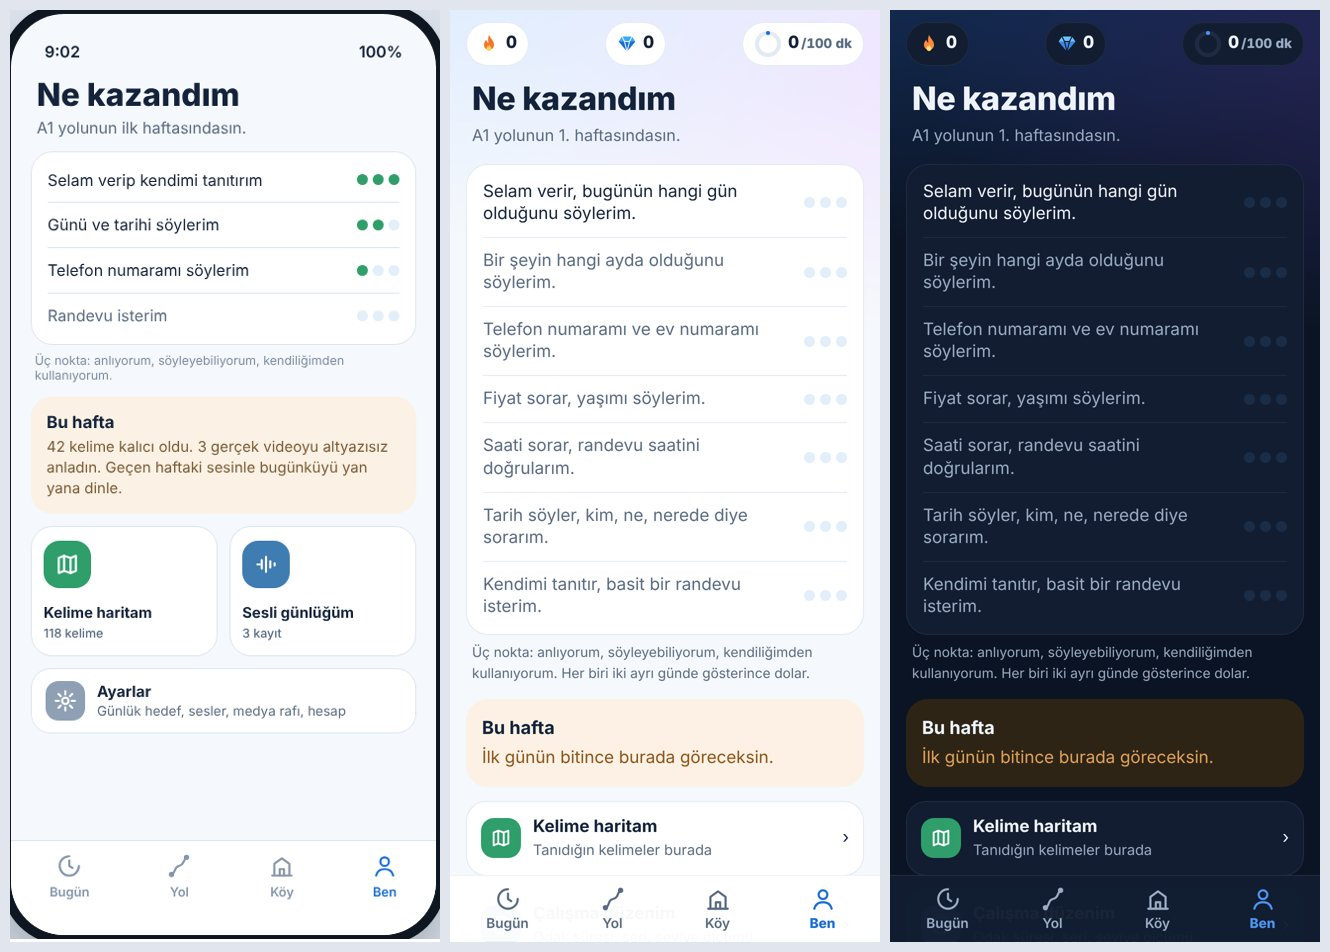
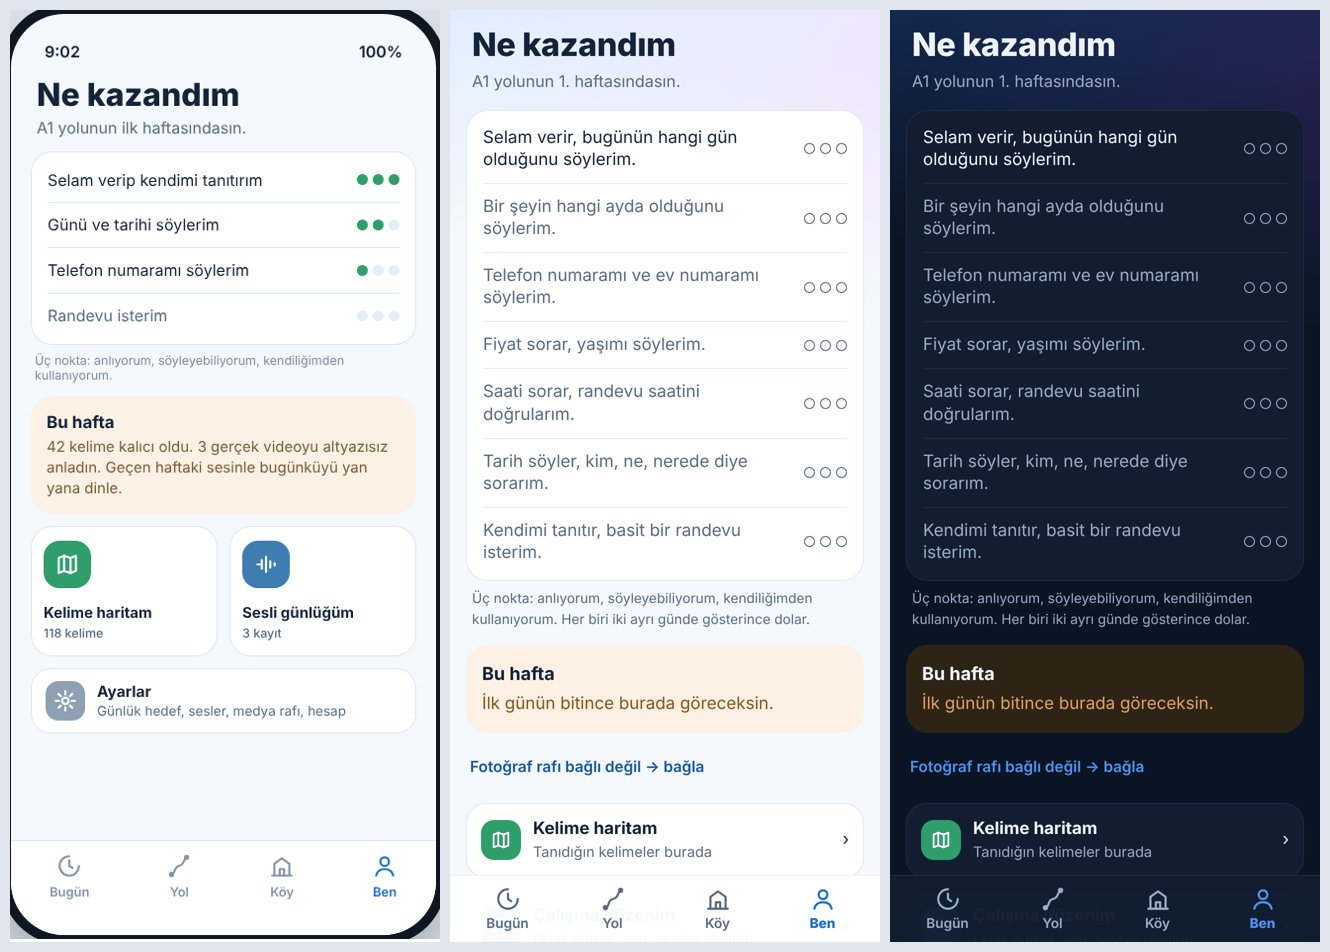
#208 1. tur: noktalar OD-4 gün kuralıyla, Çalışma düzenim sıfırsız, durum çubuğu yalnız Bugün/Yol, raf satırı
P1-1: söyleyebiliyorum = iki ayrı günde doğru üretim (sessions zaman damgası);
anlıyorum = iki ayrı gün + doğruluk ≥ policy.ben.tanima_dogruluk (0,9).
P1-2: puan yokken XP/seri ve geçen hafta kartı, odak verisi yokken sayılar
çizilmez; hafta çubuğunda 0 yerine nokta; "Bu ay" yalnız sıfır olmayanlar.
PM #200 finali takip b: üst durum çubuğu yalnız Bugün ve Yol sekmelerinde.
PM-099: raf bağlı değilse Ben'de tek satır "bağla". P2-2 bayat hafta,
P2-3 2. hafta boş cümlesi, P2-4 yalnız ses kaydı, P2-5 nokta etiketi ve
halka biçimli boş nokta (kontrast).

Claude-Session: https://claude.ai/code/session_016gishJWmPT9PRQQU6UryZo

diff --git a/web/src/core/ben.ts b/web/src/core/ben.ts
@@ -1,8 +1,8 @@
 /**
  * Ben (Hedef 3, PM-084 md. 5; hedef design/TARGET3 "Ben"): "Ne kazandım". Saf hesaplar; ekran `screens/Ben.tsx`.
  * Yapabildiklerim: içinde bulunulan haftanın günlerinin `can_do` cümleleri; her birinde üç nokta (OGRETIM_DONGUSU OD-8):
- *   1. anlıyorum (K1–K2): günün kartlarının en az `nokta_oran`'ı iki ayrı günde tanınmış;
- *   2. söyleyebiliyorum (K3): aynı oran iki ayrı oturumda (≥ 3 sa arayla) doğru üretilmiş (`durable`);
+ *   1. anlıyorum (K1–K2): günün kartlarının en az `nokta_oran`'ı iki ayrı günde, doğruluğu ≥ `tanima_dogruluk` tanınmış;
+ *   2. söyleyebiliyorum (K3): aynı oran iki ayrı günde ipucusuz doğru üretilmiş (aktif yolun doğru oturumları);
  *   3. kendiliğimden kullanıyorum (K4–K5): serbest üretim kanıtı (karakter sohbeti, sesli günlük) cihazda henüz
  *      tutulmuyor; kanıt olmadan nokta dolmaz (elle doldurma yok).
  * Bu hafta: yolun bu haftasının gerçek sayıları; hepsi sıfırsa tek dürüst cümle.
@@ -15,12 +15,19 @@ export const haftaNo = (gun: number) => Math.max(1, Math.ceil(gun / HAFTA_GUN));
 /** Haftanın gün aralığı (1. hafta: 1–7) */
 export const haftaGunleri = (hafta: number) => Array.from({ length: HAFTA_GUN }, (_, i) => (hafta - 1) * HAFTA_GUN + i + 1);
 
-const yerelGun = (iso?: string) => (iso ? new Date(iso).toLocaleDateString("sv-SE") : null);
-/** K1–K2: tanıma iki ayrı günde (ilk değerlendirme günü ≠ son doğru tanıma günü) ya da üretimde kalıcı */
-export const tanidi = (it: LearnerItem | undefined) =>
-  !!it && (it.durable || (it.passive.ok >= 2 && !!yerelGun(it.firstAt?.passive) && yerelGun(it.firstAt?.passive) !== yerelGun(it.passive.last)));
-/** K3: iki ayrı oturumda doğru üretim (srs.ts `durable`, ≥ 3 sa arayla) */
-export const soyledi = (it: LearnerItem | undefined) => !!it?.durable;
+const yerelGun = (t?: string | number) => (t ? new Date(t).toLocaleDateString("sv-SE") : null);
+/**
+ * K3: ipucusuz doğru üretim en az iki ayrı yerel günde (inceleme #208 P1-1). Aktif yolun doğru oturumları
+ * `sessions` içinde "<ad>@<ms>" biçiminde tutulur (srs.ts); `durable` yalnız 3 sa ara istediği için kullanılmaz.
+ */
+export const soyledi = (it: LearnerItem | undefined) =>
+  !!it && new Set(it.active.sessions.map((s) => Number(s.split("@")[1] || 0)).filter(Boolean).map((t) => yerelGun(t))).size >= 2;
+/**
+ * K1–K2: tanıma iki ayrı günde ve doğruluk ≥ `tanima_dogruluk` (OD-4: ≥ %90, en az 2 ayrı gün). İlk değerlendirme günü
+ * (`firstAt.passive`) ile son değerlendirme günü farklı olmalı. Üretimde iki günde doğru olan kart tanınmış sayılır.
+ */
+export const tanidi = (it: LearnerItem | undefined, dogruluk = POLICY.ben.tanima_dogruluk) =>
+  !!it && (soyledi(it) || (it.passive.n >= 2 && it.passive.ok / it.passive.n >= dogruluk && !!yerelGun(it.firstAt?.passive) && yerelGun(it.firstAt?.passive) !== yerelGun(it.passive.last)));
 
 export type Noktalar = [boolean, boolean, boolean];
 /** Günün kartlarından üç nokta; kart yoksa (öğretilecek kart tanımsız) hepsi boş */
@@ -37,12 +44,12 @@ export function haftaSayilari(v: { kartlar: readonly string[]; items: ReadonlyMa
   return { kalici: new Set(v.kartlar.filter((k) => soyledi(v.items.get(k)))).size, gun: v.bitenGun, kayit: v.medya.filter((m) => v.medyaBitti.has(m)).length };
 }
 /** Bu hafta cümlesi: yalnız sıfır olmayanlar; hiçbiri yoksa dürüst tek cümle (uydurma sayı, "0" yığını yok) */
-export function haftaCumlesi(s: HaftaSayi): string {
+export function haftaCumlesi(s: HaftaSayi, hafta = 1): string {
   const p: string[] = [];
   if (s.kalici) p.push(`${s.kalici} kelime kalıcı oldu.`);
   if (s.gun) p.push(`${s.gun} günü bitirdin.`);
   if (s.kayit) p.push(`${s.kayit} kaydı dinledin.`);
-  return p.length ? p.join(" ") : "İlk günün bitince burada göreceksin.";
+  return p.length ? p.join(" ") : hafta > 1 ? "Bu haftanın ilk günü bitince burada göreceksin." : "İlk günün bitince burada göreceksin.";
 }
 /** Başlığın alt satırı: "A1 yolunun 1. haftasındasın." */
 export const haftaSatiri = (seviye: string | null, hafta: number) => `${seviye ? `${seviye} yolunun` : "Yolun"} ${hafta}. haftasındasın.`;

diff --git a/web/src/core/ben.test.ts b/web/src/core/ben.test.ts
@@ -2,10 +2,10 @@ import { describe, it, expect } from "vitest";
 import type { LearnerItem } from "@dw/shared";
 import { haftaCumlesi, haftaGunleri, haftaNo, haftaSatiri, haftaSayilari, noktalar, soyledi, tanidi, taninanKelime } from "./ben.ts";
 
-const oge = (id: string, p: Partial<LearnerItem> & { pOk?: number; ilk?: string; son?: string } = {}): LearnerItem => ({
+const oge = (id: string, p: Partial<LearnerItem> & { pOk?: number; pN?: number; ilk?: string; son?: string; uretim?: string[] } = {}): LearnerItem => ({
   itemId: id, kind: "lexeme", inBank: false, gaps: [], u: 0, durable: p.durable ?? false,
-  passive: { s: 0, n: p.pOk ?? 0, ok: p.pOk ?? 0, last: p.son },
-  active: { s: 0, n: 0, ok: 0, sessions: [] },
+  passive: { s: 0, n: p.pN ?? p.pOk ?? 0, ok: p.pOk ?? 0, last: p.son },
+  active: { s: 0, n: 0, ok: 0, sessions: (p.uretim ?? []).map((t, i) => `s${i}@${Date.parse(t)}`) },
   firstAt: p.ilk ? { passive: p.ilk } : undefined
 });
 const GUN1 = "2026-11-20T10:00:00", GUN2 = "2026-11-21T10:00:00";
@@ -19,12 +19,14 @@ describe("Ben: noktalar kanıttan (PM-084 md. 5.2, OD-4/OD-8)", () => {
     expect(tanidi(oge("a", { pOk: 3, ilk: GUN1, son: GUN1 }))).toBe(false);
     expect(tanidi(oge("a", { pOk: 1, ilk: GUN1, son: GUN2 }))).toBe(false);
     expect(tanidi(oge("a", { pOk: 2, ilk: GUN1, son: GUN2 }))).toBe(true);
-    expect(tanidi(oge("a", { durable: true }))).toBe(true);
+    expect(tanidi(oge("a", { pOk: 2, pN: 10, ilk: GUN1, son: GUN2 }))).toBe(false);   // doğruluk %20 (OD-4: ≥ %90)
+    expect(tanidi(oge("a", { uretim: [GUN1, GUN2] }))).toBe(true);
     expect(tanidi(undefined)).toBe(false);
   });
-  it("söyleyebiliyorum yalnız kalıcı üretimle (iki ayrı oturum)", () => {
+  it("söyleyebiliyorum yalnız iki ayrı GÜNDE doğru üretimle; aynı gün iki oturum (durable) yetmez", () => {
     expect(soyledi(oge("a", { pOk: 5, ilk: GUN1, son: GUN2 }))).toBe(false);
-    expect(soyledi(oge("a", { durable: true }))).toBe(true);
+    expect(soyledi(oge("a", { durable: true, uretim: ["2026-11-20T08:00:00", "2026-11-20T15:00:00"] }))).toBe(false);
+    expect(soyledi(oge("a", { uretim: [GUN1, GUN2] }))).toBe(true);
   });
   it("nokta, günün kartlarının oranı eşiği geçince dolar; üçüncü nokta kanıt yokken dolmaz; kart yoksa boş", () => {
     const m = new Map([
@@ -33,18 +35,19 @@ describe("Ben: noktalar kanıttan (PM-084 md. 5.2, OD-4/OD-8)", () => {
     ]);
     expect(noktalar(["k1", "k2", "k3", "k4", "k5"], m, 0.8)).toEqual([true, false, false]);
     expect(noktalar(["k1", "k2", "k3", "k5", "yok"], m, 0.8)).toEqual([false, false, false]);
-    const d = new Map([...m].map(([k, v]) => [k, { ...v, durable: true }]));
+    const d = new Map([...m].map(([k, v]) => [k, { ...v, active: { ...v.active, sessions: [`a@${Date.parse(GUN1)}`, `b@${Date.parse(GUN2)}`] } }]));
     expect(noktalar(["k1", "k2", "k3", "k4", "k5"], d, 0.8)).toEqual([true, true, false]);
     expect(noktalar([], d, 0.8)).toEqual([false, false, false]);
   });
   it("bu hafta: yalnız sıfır olmayan sayılar; hepsi sıfırsa tek dürüst cümle", () => {
-    const items = new Map([["k1", oge("k1", { durable: true })], ["k2", oge("k2")]]);
+    const items = new Map([["k1", oge("k1", { uretim: [GUN1, GUN2] })], ["k2", oge("k2", { durable: true })]]);
     const s = haftaSayilari({ kartlar: ["k1", "k2", "k1"], items, bitenGun: 2, medya: ["m1", "m2"], medyaBitti: new Set(["m2", "baska"]) });
     expect(s).toEqual({ kalici: 1, gun: 2, kayit: 1 });
     expect(haftaCumlesi(s)).toBe("1 kelime kalıcı oldu. 2 günü bitirdin. 1 kaydı dinledin.");
     expect(haftaCumlesi({ kalici: 0, gun: 1, kayit: 0 })).toBe("1 günü bitirdin.");
     expect(haftaCumlesi({ kalici: 0, gun: 0, kayit: 0 })).toBe("İlk günün bitince burada göreceksin.");
     expect(haftaCumlesi({ kalici: 0, gun: 0, kayit: 0 })).not.toMatch(/\b0\b/);
+    expect(haftaCumlesi({ kalici: 0, gun: 0, kayit: 0 }, 2)).toBe("Bu haftanın ilk günü bitince burada göreceksin.");
   });
   it("alt satır ve kelime haritası sayısı", () => {
     expect(haftaSatiri("A1", 1)).toBe("A1 yolunun 1. haftasındasın.");

diff --git a/web/src/screens/Ben.tsx b/web/src/screens/Ben.tsx
@@ -9,6 +9,7 @@ import { useApp } from "../state.ts";
 import { db } from "../data/db.ts";
 import { loadM1Gun } from "../services/content.ts";
 import { ilerlemeOku } from "../services/ilerleme.ts";
+import { rafOku } from "../services/raf.ts";
 import { haftaCumlesi, haftaGunleri, haftaNo, haftaSatiri, haftaSayilari, noktalar, taninanKelime } from "../core/ben.ts";
 import { ErrorPanel, Loading } from "../ui/components.tsx";
 import { Icon } from "../ui/icons.tsx";
@@ -22,12 +23,15 @@ export function BenEkrani() {
   const { index, indexError } = useApp();
   const { plan, err, yok } = usePlan();
   const [v, setV] = useState<BenVeri | null>(null);
+  const [rafYok, setRafYok] = useState(false);
+  useEffect(() => { void rafOku().then((r) => setRafYok(!r)).catch(() => setRafYok(false)); }, []);
   // şu anki gün: planın sıradaki günü; hepsi bittiyse son gün
   const gun = plan?.simdi?.day ?? (plan?.gunler.length ? plan.gunler[plan.gunler.length - 1]!.day : 1);
   const hafta = haftaNo(gun);
   useEffect(() => {
     if (!index) return;
     let canli = true;
+    setV(null);   // hafta değişince önceki haftanın cümleleri bir an bile çizilmez (inceleme #208 P2-2)
     const var_ = new Set(index.m1.map((g) => g.day));
     const gunNo = haftaGunleri(hafta).filter((d) => var_.has(d));
     (async () => {
@@ -45,7 +49,8 @@ export function BenEkrani() {
   const durum = new Map((plan?.gunler ?? []).map((g) => [g.day, g.durum]));
   const seviye = v.gunler[0]?.level ?? null;
   const kartlar = v.gunler.flatMap((g) => g.yeni_kartlar);
-  const medya = index.m1.filter((g) => haftaGunleri(hafta).includes(g.day)).flatMap((g) => g.medya.map((m) => m.id));
+  // "kaydı dinledin": yalnız ses kayıtları (video ve köy dizisi sayılmaz; inceleme #208 P2-4)
+  const medya = index.m1.filter((g) => haftaGunleri(hafta).includes(g.day)).flatMap((g) => g.medya.filter((m) => m.kind === "ses").map((m) => m.id));
   const sayi = haftaSayilari({ kartlar, items: v.items, bitenGun: v.gunler.filter((g) => durum.get(g.day) === "bitti").length, medya, medyaBitti: v.medyaBitti });
   const kelime = taninanKelime(v.items.values());
   return (
@@ -62,7 +67,7 @@ export function BenEkrani() {
             return (
               <div class={`ben-cd${durum.get(g.day) === "kilitli" ? " ileride" : ""}`} data-test="ben-cd" data-gun={g.day} data-dolu={dolu}>
                 <span class="grow">{g.can_do.tr}</span>
-                <span class="ben-noktalar" role="img" aria-label={dolu ? `${NOKTA_TR.slice(0, dolu).join(", ")}` : "henüz kanıt yok"}>
+                <span class="ben-noktalar" role="img" aria-label={`${g.can_do.tr} ${dolu ? NOKTA_TR.slice(0, dolu).join(", ") : "henüz kanıt yok"}`}>
                   {n.map((d) => <i class={d ? "d" : undefined} />)}
                 </span>
               </div>
@@ -73,8 +78,10 @@ export function BenEkrani() {
       </>}
       <section class="ben-hafta" data-test="ben-bu-hafta">
         <b>Bu hafta</b>
-        <p>{haftaCumlesi(sayi)}</p>
+        <p>{haftaCumlesi(sayi, hafta)}</p>
       </section>
+      {/* PM-099: raf bağlı değilse tek satır (bağlıysa hiçbir şey); fotoğraflar açık lisanslı yedekle sürer */}
+      {rafYok && <a class="ben-raf" href="#/ben/ayarlar" data-test="raf-bagla">Fotoğraf rafı bağlı değil → bağla</a>}
       <div class="ben-satirlar">
         <a class="ben-satir" href="#/sozluk" data-test="kelime-haritam">
           <span class="ben-ic" style={{ background: "var(--m-bahce)" }} aria-hidden="true"><Icon name="harita" size={22} /></span>

diff --git a/web/src/screens/Progress.tsx b/web/src/screens/Progress.tsx
@@ -58,8 +58,8 @@ export function Progress() {
     <div class="stack">
       <TopBar title="Çalışma düzenim" back="#/ben" />
       {/* Şölen 1 XP ve seri kartı (Bugün'den taşındı; durum çubuğu her ekranda) ve B11b "Geçen haftaki sen" */}
-      {xp && <XpSeri xp={xp} href="#/yol" />}
-      <GecenHaftakiSen />
+      {/* PM-084 md. 5.6: hiç puan yokken sıfır kartları çizilmez (inceleme #208 P1-2) */}
+      {xp && Object.values(xp.gunler).some((n) => n > 0) && <><XpSeri xp={xp} href="#/yol" /><GecenHaftakiSen /></>}
 
       <section class="card hero purple stack" data-test="hero">
         <div class="kicker">Çalışma düzenim · {today.toLocaleDateString("tr-TR", { day: "numeric", month: "short" })}</div>
@@ -72,6 +72,7 @@ export function Progress() {
 
       <section class="card tint stack" data-test="panel-focus">
         <div class="sechead"><span class="ic" aria-hidden="true"><Icon name="clock" /></span><div><h2>Çalışma düzeni</h2><div class="tiny muted">Panel 1 · süre: ne kadar düzenli çalıştığın, dil seviyen değil</div></div></div>
+        {monthMin === 0 && !todayDay?.focusSec ? <p class="small muted" data-test="odak-bos">İlk odak seansından sonra süreler burada görünür.</p> : <>
         <div class="row between"><span>Bugün</span><b>{todayDay ? Math.floor(todayDay.focusSec / 60) : 0} / {goal} dk · {e?.completedCount || 0}/4 seans</b></div>
         <div class="row between small muted"><span>Bugünkü mola</span><span>{Math.round(((todayDay?.breakSec || 0) + (todayDay?.longBreakSec || 0)) / 60)} dk (odak süresine eklenmez)</span></div>
         {seg.size > 0 && <div class="small">Bugün: {[...seg.entries()].map(([a, s]) => `${ACTIVITY_TR[a as keyof typeof ACTIVITY_TR]} ${Math.round(s / 60)} dk`).join(" · ")}</div>}
@@ -81,9 +82,10 @@ export function Progress() {
             <div class="goal" style={{ bottom: `${(profile.focus.weekly.minPerDay / maxBar) * 100}%` }} />
             {week.map((w) => <div class={`b${w.min >= profile.focus.weekly.minPerDay ? " hit" : ""}`} style={{ height: `${(w.min / maxBar) * 100}%` }} title={`${w.k}: ${w.min} dk`} />)}
           </div>
-          <div class="barlbl">{week.map((w, i) => <span>{DOW[i]}<br />{w.min}</span>)}</div>
+          <div class="barlbl">{week.map((w, i) => <span>{DOW[i]}<br />{w.min || "·"}</span>)}</div>
         </div>
-        <div class="row between small"><span>Bu ay</span><span>{monthMin} dk · {cnt("completed")} seans tamamlandı · {cnt("interrupted") + cnt("abandoned")} yarıda kaldı</span></div>
+        <div class="row between small"><span>Bu ay</span><span>{[monthMin && `${monthMin} dk`, cnt("completed") && `${cnt("completed")} seans tamamlandı`, (cnt("interrupted") + cnt("abandoned")) && `${cnt("interrupted") + cnt("abandoned")} yarıda kaldı`].filter(Boolean).join(" · ") || "bugün başladın"}</span></div>
+        </>}
       </section>
 
       <section class="card tint green stack" data-test="panel-language">

diff --git a/web/src/app.tsx b/web/src/app.tsx
@@ -25,7 +25,7 @@ import { setLearning, startFocus, updateFocusConfig } from "./services/focusRunt
 import { setBaslangicHizi, setKarakterler, setOgrenciHitap, setYavasOran, yerelSesleriYukle } from "./services/speech.ts";
 import { efektAyar, sesKilidiAc, ustUsteSifirla } from "./services/efekt.ts";
 import { kullanimIzle } from "./services/kullanim.ts";
-import { TabBar, Loading, ErrorPanel } from "./ui/components.tsx";
+import { TabBar, Loading, ErrorPanel, sekme } from "./ui/components.tsx";
 import { ErrorBoundary, recordError } from "./ui/ErrorBoundary.tsx";
 import { ensurePersist } from "./services/storage.ts";
 import { Login } from "./screens/Login.tsx";
@@ -205,7 +205,7 @@ export function App() {
   const tabs = !!profile.onboardedAt && !(import.meta.env.MODE === "e2e" && location.hash.startsWith("#/__halka-turleri")) && route.name !== "onboarding" && route.name !== "assess" && route.name !== "section" && route.name !== "call" && route.name !== "garden" && route.name !== "m1medya" && route.name !== "akis" && route.name !== "ders" && route.name !== "prova" && route.name !== "okuma";
   return (
     <Ctx.Provider value={ctx}>
-      <main class={`app${tabs ? "" : " notabs"}`}>{tabs && <DurumCubugu />}<ErrorBoundary resetKey={location.hash}>{screen}</ErrorBoundary></main>
+      <main class={`app${tabs ? "" : " notabs"}`}>{tabs && (sekme(route.name) === "today" || sekme(route.name) === "yol") && <DurumCubugu />}<ErrorBoundary resetKey={location.hash}>{screen}</ErrorBoundary></main>
       {tabs && <TabBar route={route} />}
       <LongPressExplain />
       {LEARNING_ROUTES.has(route.name) && <BreakOverlay />}

diff --git a/web/src/styles.css b/web/src/styles.css
@@ -229,8 +229,9 @@ html { scroll-padding-top: calc(var(--safe-top) + 96px); }
 .ben-cd:last-child { border-bottom: 0; }
 .ben-cd.ileride { color: var(--muted); }
 .ben-noktalar { display: flex; gap: 5px; flex: none; }
-.ben-noktalar i { width: 11px; height: 11px; border-radius: 50%; background: color-mix(in srgb, var(--muted) 30%, transparent); }
-.ben-noktalar i.d { background: var(--wiese); }
+.ben-noktalar i { width: 11px; height: 11px; border-radius: 50%; box-sizing: border-box; border: 1.5px solid var(--muted); }
+.ben-noktalar i.d { background: var(--wiese); border-color: var(--wiese); }
+.ben-raf { display: flex; align-items: center; min-height: 44px; margin-top: 12px; padding: 0 4px; color: var(--himmel-ink); font-size: 0.9rem; font-weight: 600; text-decoration: none; }
 .ben-atif { margin: 8px 6px 0; font-size: 0.8rem; color: var(--muted); }
 .ben-hafta { margin-top: 14px; border-radius: 22px; padding: 16px; background: var(--brezel-soft); }
 .ben-hafta b { display: block; font-size: 1.06rem; }

diff --git a/tests/e2e/v2_ben.py b/tests/e2e/v2_ben.py
@@ -21,9 +21,11 @@ DB = """async (is) => { const d = await new Promise((ok, no) => { const q = inde
     t.oncomplete = ok; t.onerror = no; }); d.close(); }"""
 G1, G2 = "2026-01-01T09:00:00.000Z", "2026-01-03T09:00:00.000Z"
 
-def oge(i, durable=False):
+T1, T2 = 1767258000000, 1767430800000   # G1 ve G2'nin ms karşılığı (iki ayrı gün)
+def oge(i, uretim=False):
     return {"itemId": i, "kind": "lexeme", "passive": {"s": 0.5, "n": 2, "ok": 2, "last": G2}, "firstAt": {"passive": G1},
-            "active": {"s": 0, "n": 0, "ok": 0, "sessions": []}, "durable": durable, "gaps": [], "inBank": False, "u": 1}
+            "active": {"s": 0.5 if uretim else 0, "n": 2 if uretim else 0, "ok": 2 if uretim else 0, "sessions": [f"a@{T1}", f"b@{T2}"] if uretim else []},
+            "durable": uretim, "gaps": [], "inBank": False, "u": 1}
 
 def ben(pg, base):
     pg.goto(base + "#/today"); pg.wait_for_selector("[data-tab=today][aria-current=page]")
@@ -51,6 +53,8 @@ def main():
                 check(pg.inner_text("[data-test=ben-cd][data-gun='1']").strip().startswith(g1["can_do"]["tr"]), f"{ad} 1. günün cümlesi içerikten ({g1['can_do']['tr']!r})")
                 check(all(x[1] == 0 for x in n), f"{ad} taze cihazda nokta dolu değil (kanıt yok)")
                 check(pg.locator("[data-test=ben-aciklama]").count() == 1, f"{ad} noktaların altında tek satır açıklama")
+                check(pg.locator("[data-test=raf-bagla]").count() == 1 and pg.get_attribute("[data-test=raf-bagla]", "href") == "#/ben/ayarlar", f"{ad} raf bağlı değil → tek satır 'bağla' (PM-099)")
+                check(pg.locator("[data-test=durum-cubugu]").count() == 0, f"{ad} Ben'de üst durum çubuğu yok (PM #200 finali takip b)")
                 check(pg.inner_text("[data-test=ben-bu-hafta] p") == "İlk günün bitince burada göreceksin.", f"{ad} Bu hafta: veri yokken dürüst tek cümle")
                 check(pg.locator("[data-test=kelime-haritam]").count() == 1 and pg.get_attribute("[data-test=kelime-haritam]", "href") == "#/sozluk", f"{ad} Kelime haritam → Sözlük")
                 metin = pg.inner_text("[data-test=ben]")
@@ -67,10 +71,10 @@ def main():
                 pg.reload(); ben(pg, base)
                 n = dict((x[0], x[1]) for x in noktalar(pg))
                 check(n.get(1) == 1 and all(v == 0 for k, v in n.items() if k != 1), f"{ad} 1. günün kartları iki ayrı günde tanındı → yalnız 'anlıyorum' ({n})")
-                pg.evaluate(DB, {"items": [oge(k, durable=True) for k in kart]})
+                pg.evaluate(DB, {"items": [oge(k, uretim=True) for k in kart]})
                 pg.reload(); ben(pg, base)
                 n = dict((x[0], x[1]) for x in noktalar(pg))
-                check(n.get(1) == 2, f"{ad} iki ayrı oturumda üretim → 'söyleyebiliyorum'; serbest üretim kanıtı yokken üçüncü nokta boş ({n})")
+                check(n.get(1) == 2, f"{ad} iki ayrı günde üretim → 'söyleyebiliyorum'; serbest üretim kanıtı yokken üçüncü nokta boş ({n})")
                 bh = pg.inner_text("[data-test=ben-bu-hafta] p")
                 check(bh == f"{len(set(kart))} kelime kalıcı oldu.", f"{ad} Bu hafta gerçek sayı ({bh!r})")
                 hk = pg.inner_text("[data-test=kelime-haritam]")
@@ -94,7 +98,9 @@ def main():
         # taze cihazda Çalışma düzenim: sıfır kutusu yok, dürüst satır
         b, ctx = launch(p); pg = new_page(ctx); login_onboard(pg, PORT); pg.wait_for_selector("[data-tab=today]")
         pg.goto(base + "#/ben/duzen"); pg.wait_for_selector("[data-test=panel-language] [data-test^=dil-sayilari]")
-        check(pg.locator("[data-test=tiles]").count() == 0 and pg.locator("[data-test=dil-sayilari-bos]").count() == 1, "taze cihaz: sıfır kutuları ve sıfır satırları çizilmez")
+        check(pg.locator("[data-test=tiles]").count() == 0 and pg.locator("[data-test=dil-sayilari-bos]").count() == 1 and pg.locator("[data-test=odak-bos]").count() == 1 and pg.locator("[data-test=xp-seri]").count() == 0, "taze cihaz: sıfır kutuları, odak sayıları ve XP kartı çizilmez")
+        duz = pg.inner_text("main")
+        check(not re.search(r"(^|\s)0(\s|$|/)", duz), f"taze cihaz Çalışma düzenim: ekranda '0' yok ({[l for l in duz.split(chr(10)) if re.search(r'(^|\s)0(\s|$|/)', l)][:4]})")
         b.close()
     srv.shutdown()
     finish()

diff --git a/tests/e2e/v2_yol_harita.py b/tests/e2e/v2_yol_harita.py
@@ -30,8 +30,11 @@ def main():
         for tema in ("light", "dark"):
             b, ctx = launch(p, color_scheme=tema); pg = new_page(ctx)
             login_onboard(pg, PORT); pg.wait_for_selector("[data-tab=today]")
-            # 1) durum çubuğu sekmeli ekranlarda
-            for h in ("#/today", "#/yol", "#/learn", "#/profile"):
+            # 1) durum çubuğu Bugün ve Yol'da; Köy, Ben ve ayarlarda yok (PM #200 finali takip b)
+            for h in ("#/koy", "#/ben", "#/profile"):
+                pg.goto(base + h); pg.wait_for_selector("[data-tab=koy][aria-current=page], [data-tab=ben][aria-current=page]"); pg.wait_for_timeout(150)
+                check(pg.locator("[data-test=durum-cubugu]").count() == 0, f"[{tema}] {h}: üst durum çubuğu yok (yalnız Bugün ve Yol)")
+            for h in ("#/today", "#/yol"):
                 pg.goto(base + h); pg.wait_for_selector("[data-test=durum-cubugu]")
                 check(all(pg.locator(f"[data-test=durum-{k}]").count() == 1 for k in ("seri", "xp", "dk")), f"[{tema}] {h}: üst çubukta seri, XP, dakika")
             kutu = pg.locator("[data-test=durum-xp]").bounding_box()
